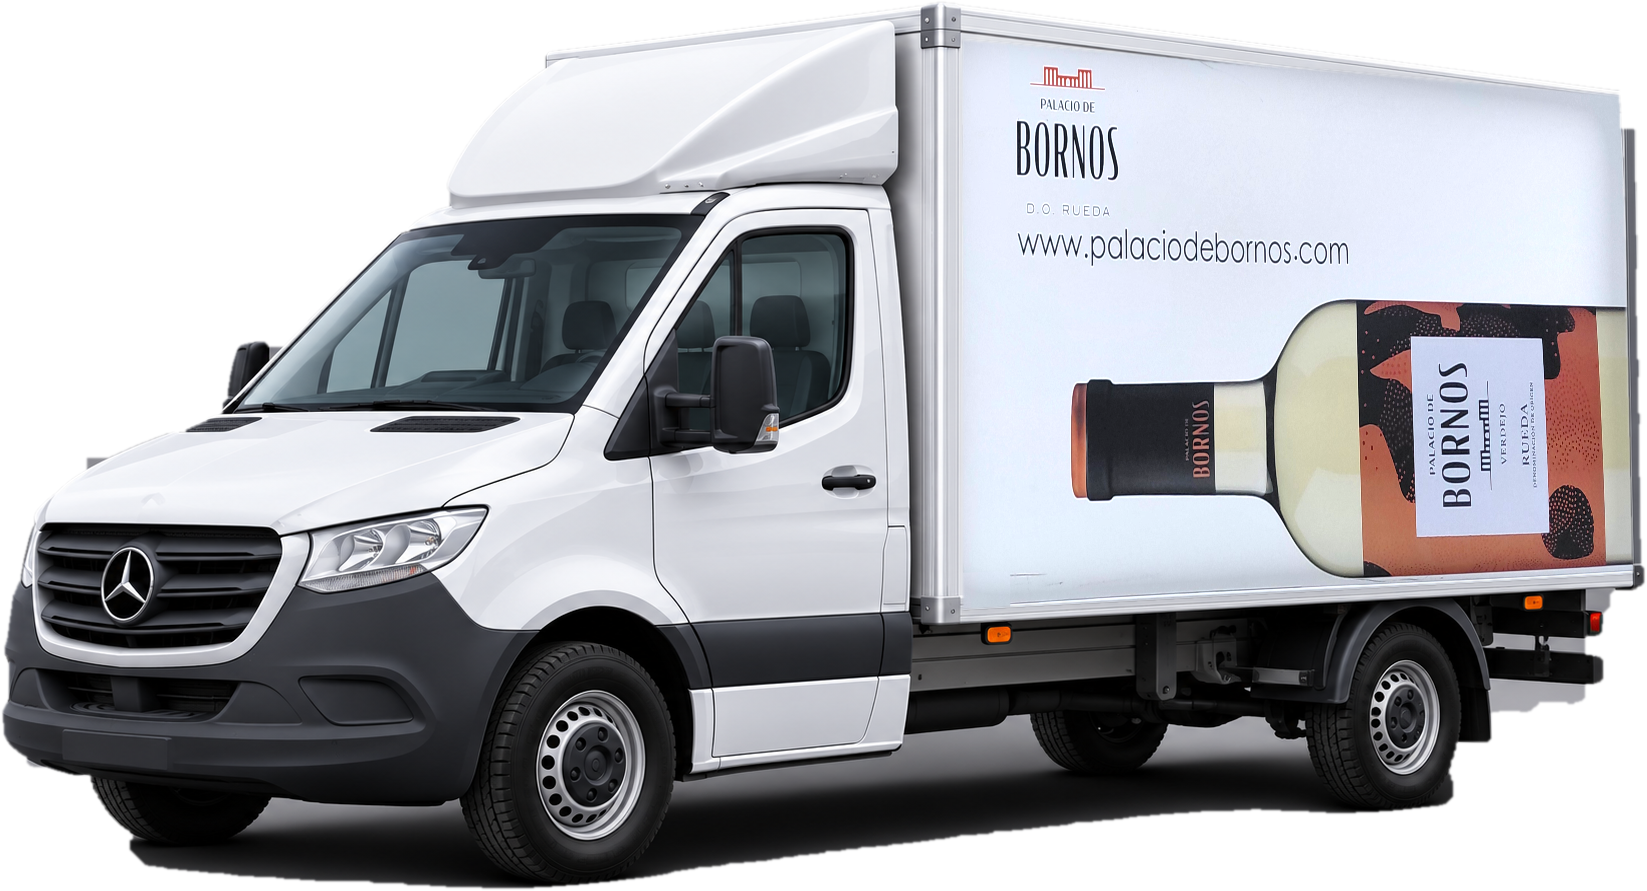
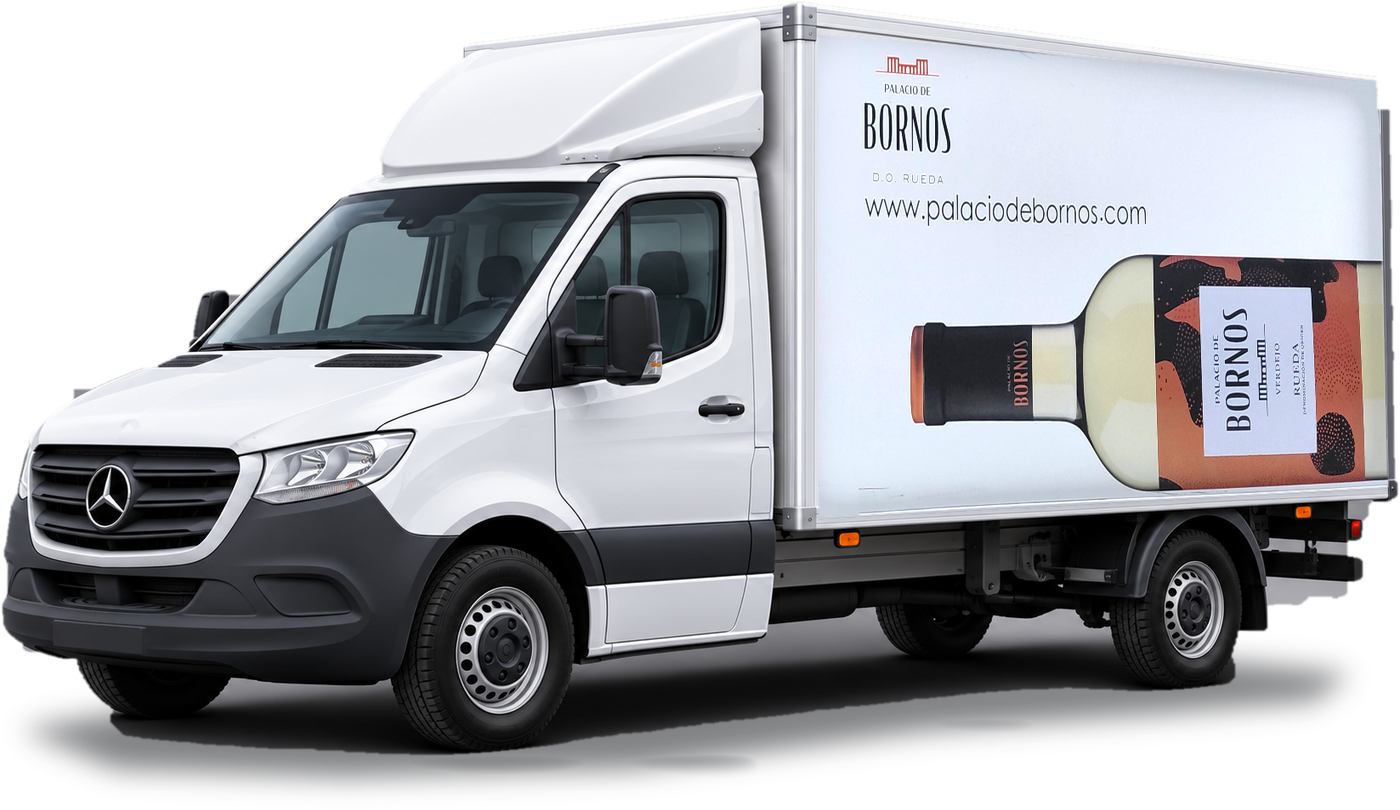
Portada y Historia: nuevo Sprinter con rótulo de Palacio de Bornos (PNG con sombra en el suelo) sustituye a la Ford Transit de la portada; Jumbo sin el mordisco de la izquierda
Claude-Session: https://claude.ai/code/session_01TfVuY2sTVvMwp4RqzYabW2

diff --git a/styles.css b/styles.css
@@ -101,10 +101,10 @@ section{position:relative}
 
 /* del almacén a tu negocio */
 .van-world{background:#fffffd}
-.van-stage{position:relative;min-height:100svh;overflow:hidden;background:#fffffd;display:flex;flex-direction:column;align-items:center;--vw:min(50vw,740px)}
+.van-stage{position:relative;min-height:100svh;overflow:hidden;background:#fffffd;display:flex;flex-direction:column;align-items:center;--vw:min(58vw,900px)}
 .van-title{z-index:3;position:absolute;left:0;right:0;top:calc(12vh + 50px);text-align:center;font-size:clamp(2.6rem,.6rem + 7.4vw,9rem);white-space:nowrap;font-weight:500;letter-spacing:-.055em;line-height:.9;color:var(--ink);padding:0 var(--m)}
 .van-sub{display:none}
-.van-fig{position:absolute;left:50%;top:calc(13vh + 78px);width:var(--vw);aspect-ratio:1024/981;margin-left:calc(var(--vw) / -2);will-change:transform}
+.van-fig{position:absolute;left:50%;top:calc(13vh + 128px);width:var(--vw);aspect-ratio:1400/810;margin-left:calc(var(--vw) / -2);will-change:transform}
 .van-photo{position:absolute;inset:0}
 .van-img{position:absolute;inset:0;width:100%;height:100%}
 .van-shadow{display:none}
@@ -210,18 +210,18 @@ form{margin-top:48px;display:grid;gap:10px;grid-template-columns:1fr 1fr 1fr}
   .cafe-stage::after{background:linear-gradient(to top,rgba(14,10,7,.88) 0%,rgba(14,10,7,.35) 70%,rgba(14,10,7,.2) 100%)} /* taste-skill-ignore: velo neutro o sombra física sobre fotografía */
 }
 @media (max-width:640px){
-  .van-stage{--vw:104vw}
+  .van-stage{--vw:96vw}
   .van-title{top:calc(76px + 3vh);white-space:normal;font-size:clamp(2.6rem,13vw,4rem)}
-  .van-fig{top:calc(14vh + 40px)}
+  .van-fig{top:calc(14vh + 74px)}
   .van-steps{grid-template-columns:1fr;bottom:3vh;height:150px}
   .van-step{position:absolute;left:0;right:0;bottom:0}
   .van-step b{font-size:2.6rem}
   .reco-title{font-size:clamp(1.8rem,9vw,2.6rem)}
   .reco-scene{left:0;right:0;width:100%;top:calc(275px);bottom:calc(26vh)}
   .reco-caps{bottom:calc(8vh + 8px)}
-  .van-stage{--vw:104vw}
+  .van-stage{--vw:96vw}
   .van-title{top:calc(76px + 3vh);white-space:normal;font-size:clamp(2.6rem,13vw,4rem)}
-  .van-fig{top:calc(14vh + 40px)}
+  .van-fig{top:calc(14vh + 74px)}
   .van-steps{grid-template-columns:1fr;bottom:3vh}
   .van-step{position:absolute;left:0;right:0;bottom:0}
   .van-step b{font-size:2.6rem}

diff --git a/index.html b/index.html
@@ -13,7 +13,7 @@
 <link href="https://fonts.googleapis.com/css2?family=Jost:wght@400;500;700&display=swap" rel="stylesheet">
 <link rel="preload" as="image" href="assets/portada-inicio.png" fetchpriority="high" media="(min-width:641px)">
 <link rel="preload" as="image" href="assets/portada-inicio-movil.png" fetchpriority="high" media="(max-width:640px)">
-<link rel="stylesheet" href="styles.css?v=108e5d20">
+<link rel="stylesheet" href="styles.css?v=0fb9c342">
 <script>document.documentElement.classList.add('js')</script>
 <script src="motion-pref.js?v=9d45106a"></script>
 <link rel="icon" type="image/png" href="assets/logo-tile.png">
@@ -136,7 +136,7 @@
     <div class="van-fig" id="van-fig">
       <div class="van-shadow" aria-hidden="true"></div>
       <div class="van-photo">
-        <img class="van-img" src="assets/furgoneta-valentin-transit.png" width="1024" height="981" alt="Furgoneta Ford Transit de reparto de Distribuciones Valentín, con el logotipo en la puerta del conductor y la botella de Palacio de Bornos en el lateral" loading="lazy" decoding="async">
+        <img class="van-img" src="assets/furgoneta-sprinter-bornos.png" width="1400" height="810" alt="Furgoneta Mercedes-Benz Sprinter de reparto de Distribuciones Valentín, con la botella de Palacio de Bornos en el lateral" loading="lazy" decoding="async">
       </div>
     </div>
     <ol class="van-steps">
